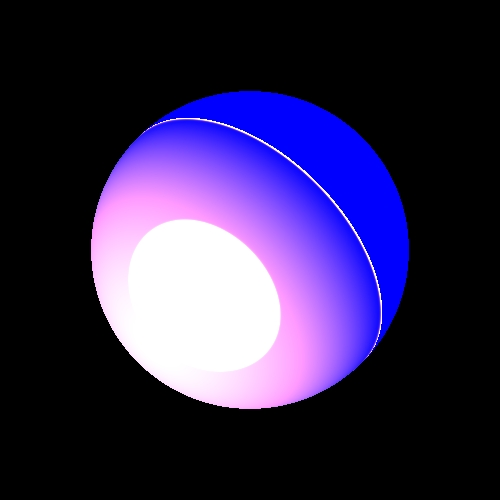
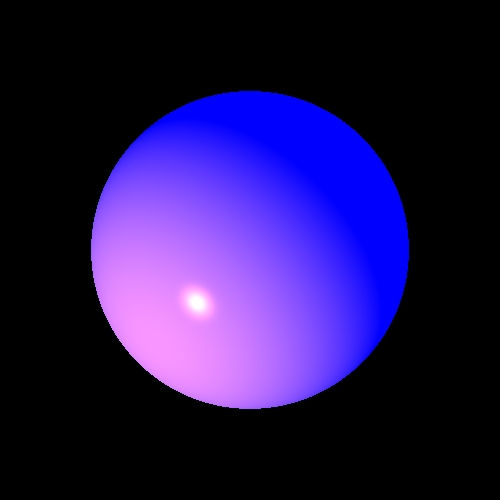
final commit - targil 6 need debug ONLY

Changed region(s): [[0.18, 0.21, 0.78, 0.84], [0.63, 0.36, 0.66, 0.39]]

diff --git a/src/unittests/elements/LightsTests.java b/src/unittests/elements/LightsTests.java
@@ -1,8 +1,7 @@
-package unittests;
+package elements;
 
 import org.junit.Test;
 
-import elements.*;
 import geometries.*;
 import primitives.*;
 import renderer.*;
@@ -166,5 +165,58 @@ public class LightsTests {
         render.renderImage();
         render.writeToImage();
     }
-    
+
+    @Test
+    public void trianglesFull() {
+        Scene scene = new Scene("Test scene");
+        scene.setCamera(new Camera(new Point3D(0, 0, -1000), new Vector(0, 0, 1), new Vector(0, -1, 0)));
+        scene.setDistance(1000);
+        scene.setBackground(Color.BLACK);
+        scene.setAmbientLight(new AmbientLight(new Color(java.awt.Color.WHITE), 0.15));
+
+        scene.addGeometries(
+                new Triangle(Color.BLACK, new Material(0.5, 0.5, 300),
+                        new Point3D(-150, 150, 150), new Point3D(150, 150, 150), new Point3D(75, -75, 150)),
+                new Triangle(Color.BLACK, new Material(0.5, 0.5, 300),
+                        new Point3D(-150, 150, 150), new Point3D(-70, -70, 50), new Point3D(75, -75, 150)));
+
+        scene.addLights(new SpotLight(new Color(500, 250, 250),
+                new Point3D(10, 10, 130), new Vector(-2, 2, 1),
+                1, 0.0001, 0.000005),
+                new PointLight(new Color(500, 250, 250),
+                        new Point3D(0, 100, 0),
+                        1, 0.0005, 0.0005),
+                new DirectionalLight(new Color(300, 150, 150), new Vector(0, 0, 1)));
+
+        ImageWriter imageWriter = new ImageWriter("trianglesFull", 200, 200, 500, 500);
+        Render render = new Render(imageWriter, scene);
+
+        render.renderImage();
+        render.writeToImage();
+    }
+
+    @Test
+    public void sphereFull() {
+        Scene scene = new Scene("Test scene");
+        scene.setCamera(new Camera(new Point3D(0, 0, -1000), new Vector(0, 0, 1), new Vector(0, -1, 0)));
+        scene.setDistance(1000);
+        scene.setBackground(Color.BLACK);
+        scene.setAmbientLight(new AmbientLight(Color.BLACK, 0));
+
+        scene.addGeometries(
+                new Sphere(new Color(java.awt.Color.BLUE), new Material(0.5, 0.5, 100), 50, new Point3D(0, 0, 50)));
+
+        scene.addLights(new SpotLight(new Color(500, 300, 0), new Point3D(-50, 50, -50),
+                new Vector(1, -1, 2), 1, 0.00001, 0.00000001),
+                new PointLight(new Color(500, 300, 0), new Point3D(50, 50, 0), 1, 0.00001, 0.000001),
+                new DirectionalLight(new Color(500, 300, 0), new Vector(-1, 1, -1)));
+
+        ImageWriter imageWriter = new ImageWriter("sphereFull", 150, 150, 500, 500);
+        Render render = new Render(imageWriter, scene);
+
+        render.renderImage();
+        render.writeToImage();
+    }
+
+
 }

diff --git a/src/renderer/Render.java b/src/renderer/Render.java
@@ -10,6 +10,8 @@ import geometries.Intersectable.GeoPoint;
 //import java.awt.Color;
 import java.util.List;
 
+import static java.lang.Math.max;
+
 /**
  * A class for rendering image by the scene with image writer element
  * to determine the properties of the image
@@ -89,11 +91,13 @@ public class Render {
 
     private Color calcSpecular(double ks, Vector l, Vector n, Vector v, int nShininess, Color lightIntensity) {
         Vector r = (n.scale((l.dotProduct(n))*-2)).add(l);
-        return lightIntensity.scale(ks*(Math.pow((v.scale(-1)).dotProduct(r), nShininess)));
+        double factor = ks*(Math.pow(max((-1)*v.dotProduct(r),0), nShininess));
+        return lightIntensity.scale(factor);
     }
 
     private Color calcDiffusive(double kd, Vector l, Vector n, Color lightIntensity) {
-        return lightIntensity.scale(kd*Math.abs(l.dotProduct(n)));
+        double factor = kd*Math.abs(l.dotProduct(n));
+        return lightIntensity.scale(factor);
     }
 
     /**

diff --git a/src/elements/SpotLight.java b/src/elements/SpotLight.java
@@ -4,19 +4,17 @@ import primitives.Color;
 import primitives.Point3D;
 import primitives.Vector;
 
-import static sun.swing.MenuItemLayoutHelper.max;
-
 public class SpotLight extends PointLight {
     private Vector _direction;
 
     public SpotLight(Color _intensity, Point3D _position, Vector _direction, double _kC, double _kL, double _kQ) {
         super(_intensity, _position, _kC, _kL, _kQ);
-        this._direction = _direction;
+        this._direction = _direction.normalized();
     }
 
     @Override
     public Color getIntensity(Point3D p) {
-        return super.getIntensity(p).scale(max(0, (int) _direction.dotProduct(getL(p))));
+        return super.getIntensity(p).scale(Math.max(0, _direction.dotProduct(getL(p))));
     }
 
 }

diff --git a/src/elements/DirectionalLight.java b/src/elements/DirectionalLight.java
@@ -9,7 +9,7 @@ public class DirectionalLight extends Light implements LightSource {
 
     public DirectionalLight(Color _intensity, Vector _direction) {
         super(_intensity);
-        this._direction = _direction;
+        this._direction = _direction.normalized();
     }
 
     @Override

diff --git a/src/elements/PointLight.java b/src/elements/PointLight.java
@@ -25,6 +25,6 @@ public class PointLight extends Light implements LightSource {
 
     @Override
     public Vector getL(Point3D p) {
-        return p.subtract(_position);
+        return p.subtract(_position).normalized();
     }
 }

diff --git a/src/unittests/renderer/RenderTests.java b/src/unittests/renderer/RenderTests.java
@@ -1,12 +1,10 @@
-package unittests;
+package renderer;
 
 import org.junit.Test;
 
 import elements.*;
 import geometries.*;
 import primitives.*;
-import renderer.ImageWriter;
-import renderer.Render;
 import scene.Scene;
 
 /**
